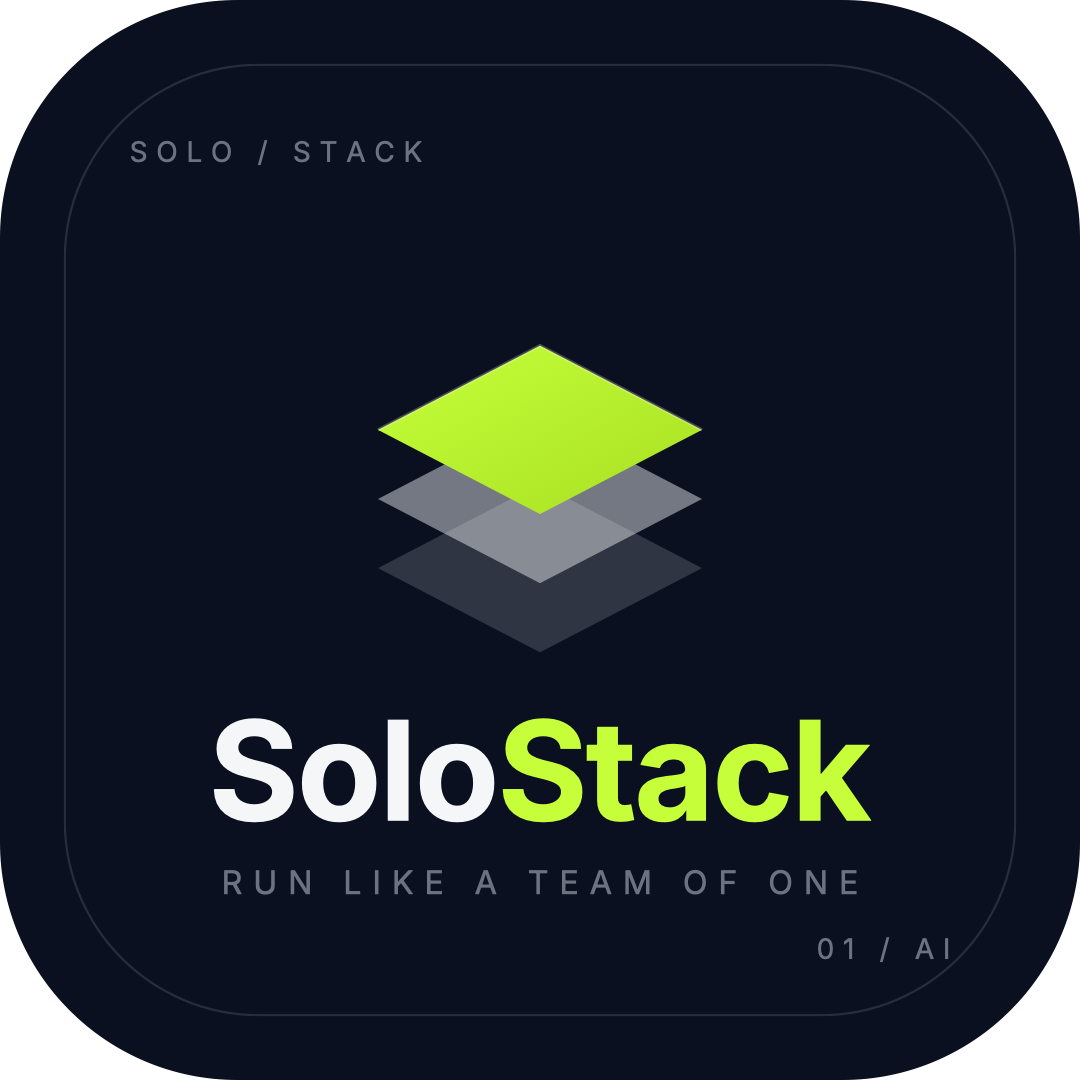
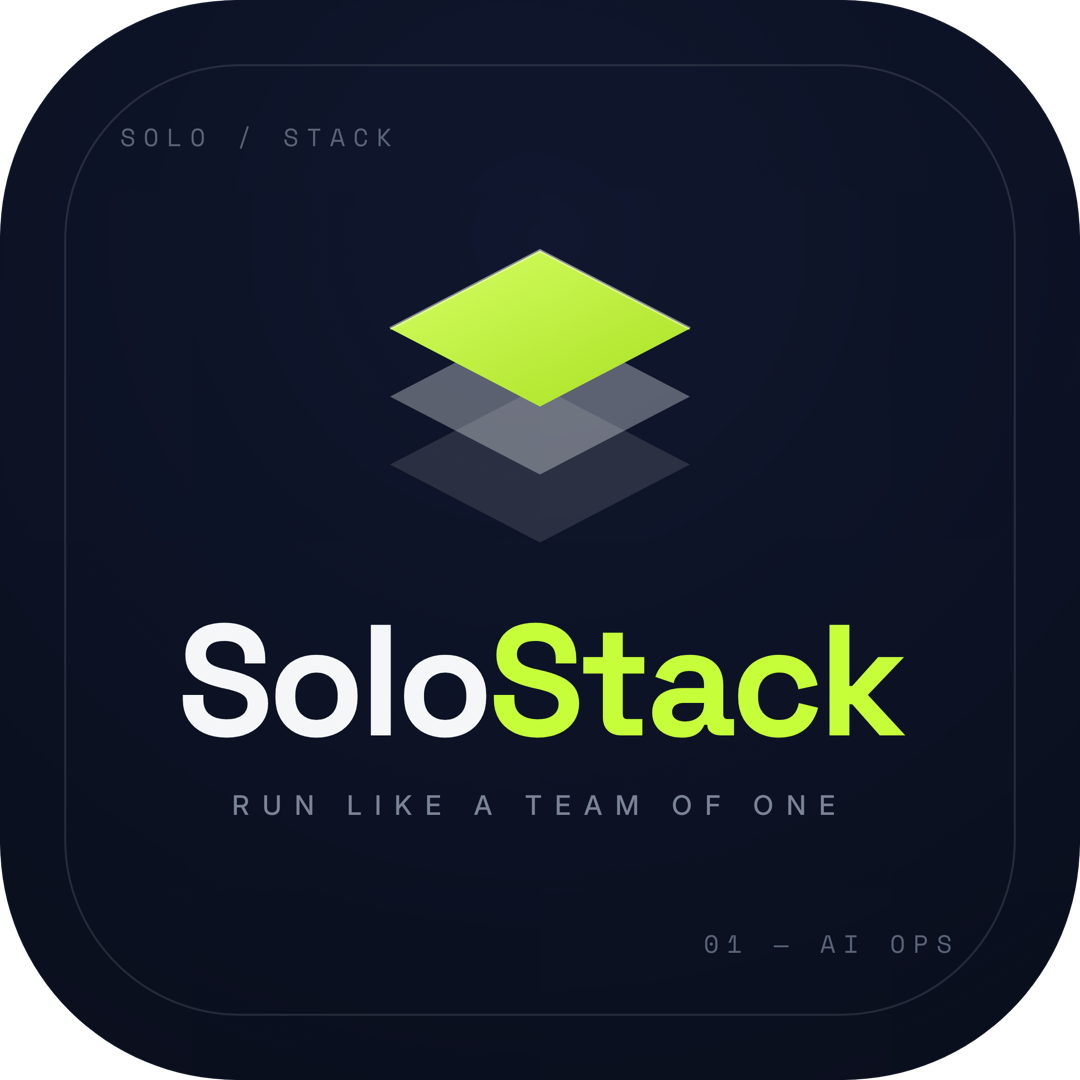
Wire Buy buttons to live Gumroad checkout
Set GUMROAD_URL to the live AI Brand Kit product
(https://markodave.gumroad.com/l/ruaqk) so all [data-buy] CTAs open
checkout. Also includes the page-3 brand swap (One Percent Daily -> Autopilot).

diff --git a/index.html b/index.html
@@ -120,20 +120,20 @@
         </div>
       </article>
 
-      <!-- One Percent Daily -->
-      <article class="brand-card" id="one-percent-daily" style="--accent:var(--opd)">
+      <!-- Autopilot -->
+      <article class="brand-card" id="autopilot" style="--accent:var(--auto)">
         <div class="head">
-          <img src="assets/brands/one-percent.png" alt="One Percent Daily logo">
+          <img src="assets/brands/autopilot.png" alt="Autopilot logo">
           <div>
-            <div class="name">One Percent Daily</div>
-            <div class="handle">@onepercent.daily</div>
+            <div class="name">Autopilot</div>
+            <div class="handle">@runautopilot</div>
           </div>
         </div>
-        <p class="promise">Discipline compounds. Win today.</p>
-        <p class="pillars">Habits · mindset · focus · money discipline</p>
+        <p class="promise">Build it once. Let it run.</p>
+        <p class="pillars">AI automations · agents · systems that run themselves</p>
         <div class="links">
-          <a class="lnk solid" href="#get-access">Free 7-Day Discipline Starter <span class="arr">→</span></a>
-          <a class="lnk" href="https://instagram.com/onepercent.daily" target="_blank" rel="noopener">Follow on Instagram <span class="arr">↗</span></a>
+          <a class="lnk solid" href="#get-access">Free Automation Starter Pack <span class="arr">→</span></a>
+          <a class="lnk" href="https://instagram.com/runautopilot" target="_blank" rel="noopener">Follow on Instagram <span class="arr">↗</span></a>
         </div>
       </article>
 

diff --git a/assets/app.js b/assets/app.js
@@ -13,7 +13,7 @@
      CONFIG — Dave edits these two lines after Gumroad setup.
      (See SETUP-NEXT.md)
      ---------------------------------------------------------- */
-  var GUMROAD_URL = "";                 // e.g. "https://3shamrocks.gumroad.com/l/ai-brand-kit"
+  var GUMROAD_URL = "https://markodave.gumroad.com/l/ruaqk";   // The AI Brand Kit — live
   var FORMSPREE_ID = "";                // e.g. "xayzqwer"  (from formspree.io)
   /* ---------------------------------------------------------- */
 

diff --git a/assets/styles.css b/assets/styles.css
@@ -17,7 +17,7 @@
   /* per-brand accents */
   --solo:#C6FF3A;
   --pp:#FF4D6D;
-  --opd:#E8B23A;
+  --auto:#5B8CFF;
   --fd:#5FE3A1;
   --maxw:1080px;
   --serif:'Fraunces',Georgia,'Times New Roman',serif;

diff --git a/README.md b/README.md
@@ -5,7 +5,7 @@ A self-hosted **link-in-bio hub** + **product landing page** for the 3Shamrocks 
 **Live:** https://3shamrocksstudio.github.io/media-network-hub/
 
 ## Pages
-- **`index.html`** — the link-in-bio hub. One premium page with a section per brand (Solo Stack, Prompt & Pixel, One Percent Daily, First Dollar). Each IG page points its bio link here; deep-link a single brand with an anchor, e.g. `…/#solo-stack`.
+- **`index.html`** — the link-in-bio hub. One premium page with a section per brand (Solo Stack, Prompt & Pixel, Autopilot, First Dollar). Each IG page points its bio link here; deep-link a single brand with an anchor, e.g. `…/#solo-stack`, `…/#autopilot`.
 - **`kit.html`** — the landing page for **The AI Brand Kit** ($29): hero, benefits, what's inside, price, FAQ, buy CTA + email capture.
 
 ## Wiring it up (see `SETUP-NEXT.md` in the project root)